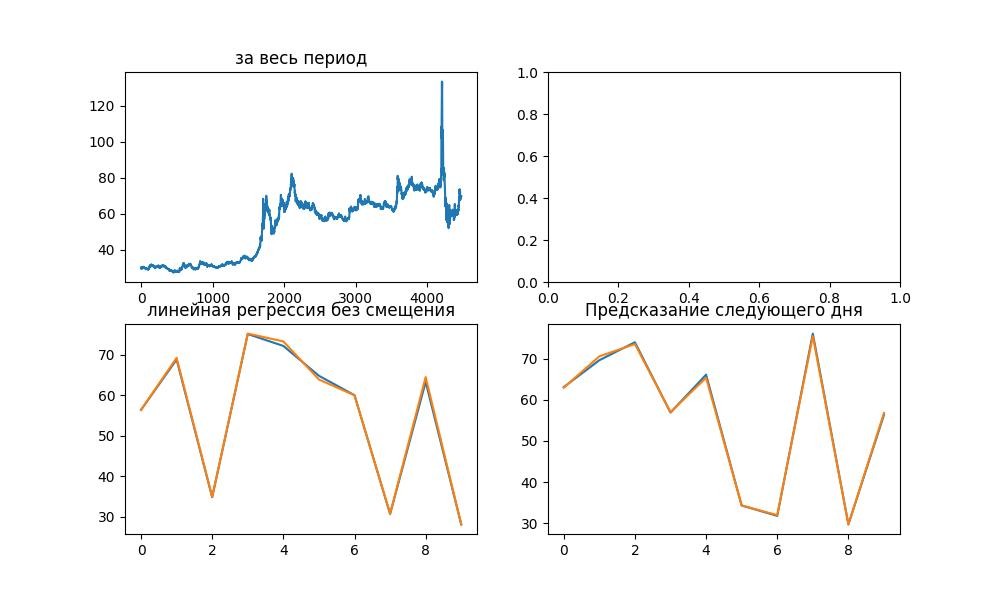
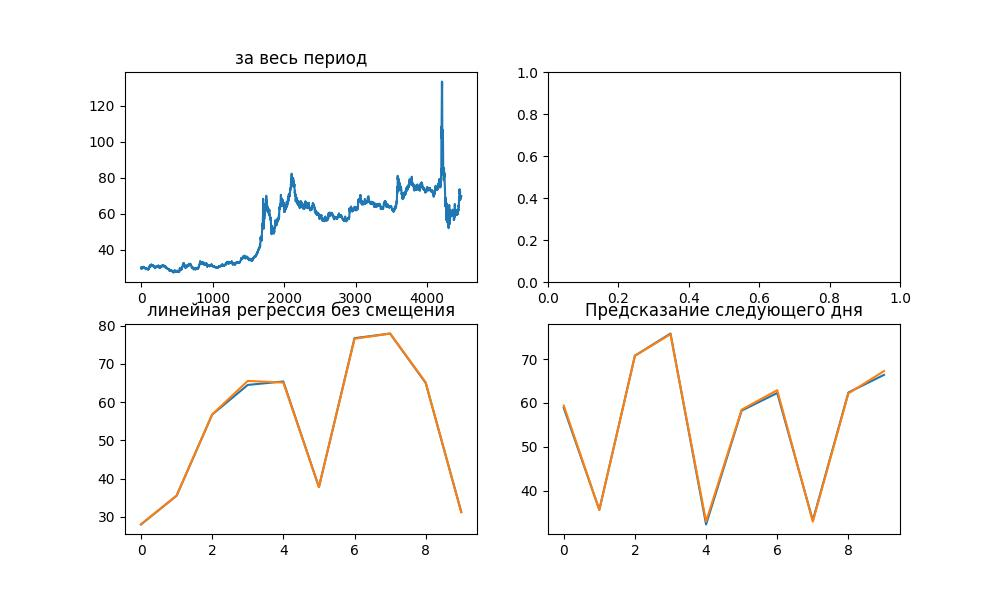
1.2  new normalization

diff --git a/Create_model.py b/Create_model.py
@@ -84,9 +84,16 @@ min_max = open('files/min_max.txt', 'w+')
 min_max.write(str(data_min_max[0]))
 min_max.write(' ' + str(data_min_max[1]))
 min_max.close()
-
+# нормализуем данные
 sc5 = StandardScaler()
-x5_sc = sc5.fit_transform(x5)
+#x5_sc = sc5.fit_transform(x5)
+
+# нормализую "вручную"
+def normal(x):
+    x = (x - data_min_max[0]) / (data_min_max[1] - data_min_max[0])
+    return x
+x5_sc = x5.apply(normal, axis=1)
+
 x5_train, x5_test, y5_train, y5_test = train_test_split(x5_sc, y5, test_size=0.2)
 
 lin_r_model5 = LinearRegression()

diff --git a/main.py b/main.py
@@ -45,8 +45,6 @@ def create_graph():
             d = dict(i[1])
             lst = []
             if db_date > now:
-                # написать ретурн
-
                 break
             for j in d.items():
                 lst.append(float(j[1]))
